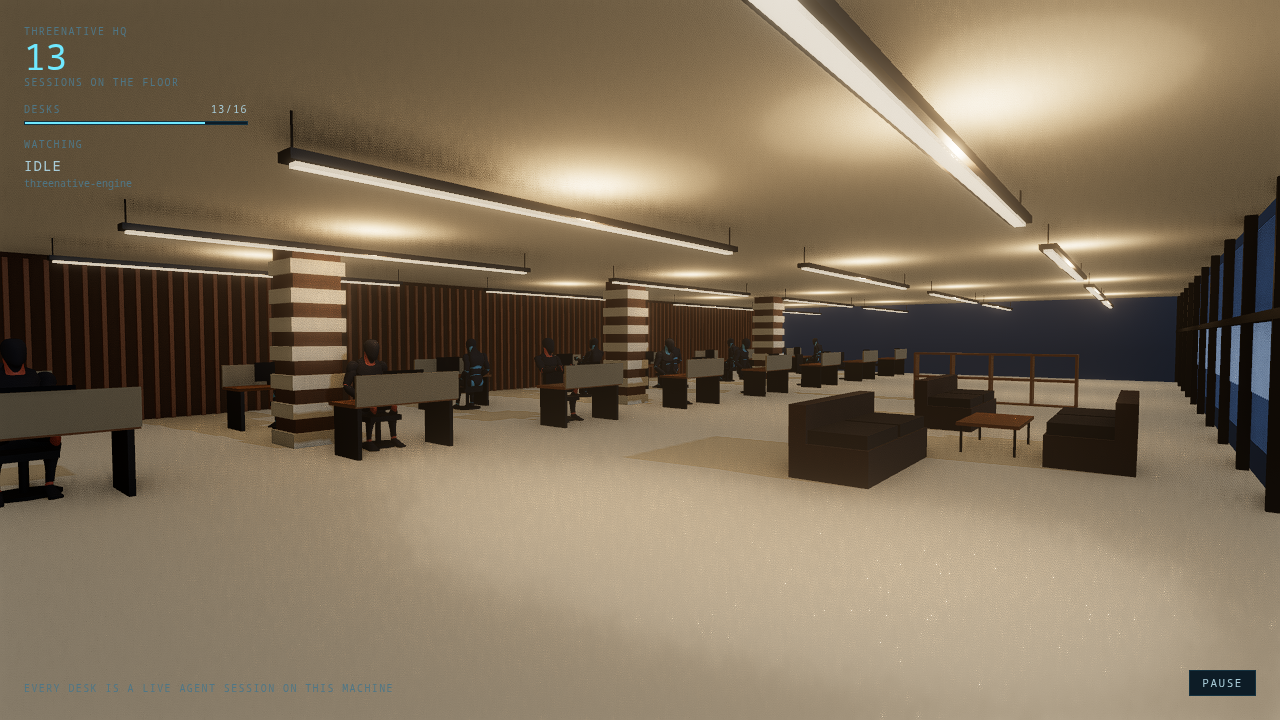
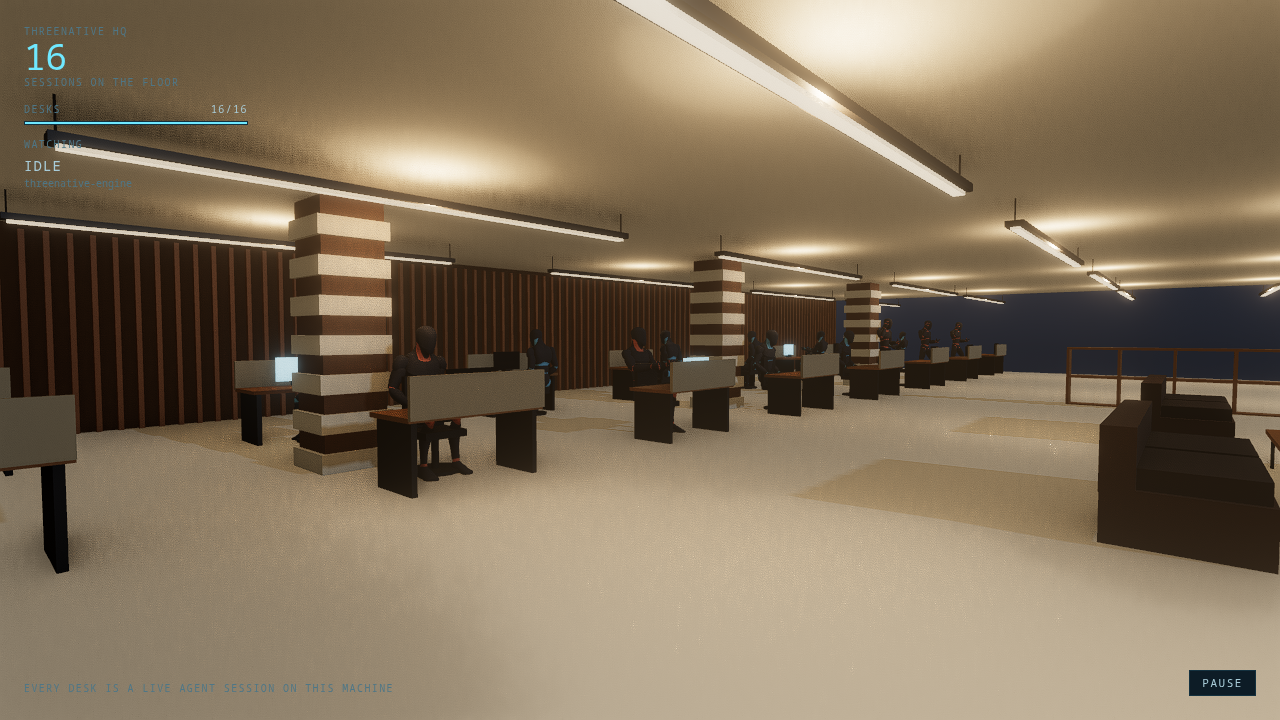
feat(hq): hooks make "waiting for you" visible, and lit monitors make the floor readable
Host hooks post six events to the bridge (tools/hooks/office-event.mjs); the installer merges them
into ~/.claude/settings.json and ~/.codex/hooks.json without disturbing what is already there —
verified against a copy of this machine's settings, whose existing count_tokens Stop hook and env
block both survive. It is a dry run unless --write is passed.

Proof of the hook path, end to end against the live bridge: a Notification hook produces a session
with source "hook" and state "blocked", and its worker stands up. A malformed event is refused by
name — `"host" must be "claude" or "codex", got "pirate"` — and changes nothing on the floor.

Working and thinking sessions now light their own monitor, per desk, which is what makes a room of
sixteen workers readable at a glance.

FRICTION.md records six engine-shaped findings, including the Fab importer being StaticMesh-only
and the engine repo's own .mcp.json pointing at a path that cannot resolve.

Claude-Session: https://claude.ai/code/session_01SHQcRgFQ73Ctmisw5sicMn

diff --git a/threenative-hq/src/scenes/Office.ts b/threenative-hq/src/scenes/Office.ts
@@ -1,7 +1,7 @@
 import { type ICtx, Scene, type SceneFrame, isMobile } from "@threenative/core";
 import type { IPhysicsContext } from "@threenative/physics";
 import type { AnimationClip, Group, PerspectiveCamera } from "three";
-import { Vector3 } from "three";
+import { Color, Mesh, MeshStandardMaterial, Vector3 } from "three";
 import { BridgeClient } from "../office/bridge-client.js";
 import { Worker } from "../office/Worker.js";
 import { assignDesks, workerStateFor } from "../office/floor.js";
@@ -83,8 +83,8 @@ export class Office extends Scene<GameState, IPhysicsContext> {
     const camera = ctx.camera as PerspectiveCamera;
     // Framing after the reference: eye height, off to one side, looking down the desk rows so the
     // slat wall fills the background and the glass throws the far edge of the floor into light.
-    camera.position.set(-14.6, 1.68, 7.4);
-    camera.lookAt(new Vector3(-1.2, 1.05, -3.4));
+    camera.position.set(-13.4, 1.55, 4.6);
+    camera.lookAt(new Vector3(-3.4, 1.0, -4.2));
 
     const bridge = new BridgeClient();
     const workers = new Map<string, Worker>();
@@ -124,6 +124,9 @@ export class Office extends Scene<GameState, IPhysicsContext> {
         const anchor = worker.standing ? desk.stand : desk.seat;
         worker.object.position.copy(anchor);
         worker.object.rotation.y = desk.facing;
+        // A working session lights its own monitor. It is the cheapest way to read the floor at a
+        // glance — a room of dark screens with three lit ones says where the work is.
+        setScreen(desk.screen, state === "working" || state === "thinking");
       }
 
       // Departures: a worker whose session is gone from the snapshot leaves the floor entirely.
@@ -158,6 +161,21 @@ export class Office extends Scene<GameState, IPhysicsContext> {
       if (changed) frameCtx.state.set(next);
     };
   }
+}
+
+const SCREEN_ON = new Color(0x9fd4e8);
+const SCREEN_OFF = new Color(0x14161a);
+
+/** Light or darken one desk's monitor. The material is the desk's own, cloned by `createOffice`. */
+function setScreen(screen: Mesh, lit: boolean): void {
+  const material = screen.material;
+  if (!(material instanceof MeshStandardMaterial)) return;
+  const wanted = lit ? SCREEN_ON : SCREEN_OFF;
+  if (material.emissive.equals(wanted)) return;
+  material.emissive.copy(wanted);
+  material.emissiveIntensity = lit ? 1.4 : 0;
+  material.color.copy(lit ? SCREEN_ON : SCREEN_OFF);
+  material.needsUpdate = true;
 }
 
 /** Entity ids are how a playtest names a worker, so they must be stable and readable. */

diff --git a/threenative-hq/src/render/office.ts b/threenative-hq/src/render/office.ts
@@ -310,7 +310,9 @@ function placeDesk(index: number): { group: Group; desk: IDeskAnchor } {
 
   const screen = new Mesh(
     new BoxGeometry(0.62, 0.36, 0.03),
-    new MeshStandardMaterial({ color: office.screenOff, roughness: 0.3, metalness: 0.1 }),
+    // Per desk, deliberately: one shared material would light the whole floor when one session
+    // starts working.
+    new MeshStandardMaterial({ color: office.screenOff, metalness: 0.1, roughness: 0.3 }),
   );
   screen.position.set(0, DESK_HEIGHT + 0.28, -0.24);
   group.add(screen);

diff --git a/threenative-hq/FRICTION.md b/threenative-hq/FRICTION.md
@@ -1,0 +1,68 @@
+# FRICTION — threenative-hq
+
+Engine-shaped friction hit while building this game, with the evidence path. Game-shaped problems
+are not in here; they were fixed in the game.
+
+## 1. `.mcp.json` in the engine repository points at a path that cannot resolve
+
+`packages/core/mcp/servers.mjs` writes `./node_modules/@threenative/core/mcp/assets.mjs`, which is
+right for a generated game and wrong for the engine checkout, where core is a workspace package the
+repo never installs into itself:
+
+```
+Error: Cannot find module '/home/joao/projects/threenative/threenative-engine/node_modules/@threenative/core/mcp/assets.mjs'
+```
+
+An agent working in the engine repository therefore has no asset, sculpt or capability tools at
+all, silently — the server simply never connects. Fixed locally by pointing the file at
+`./packages/core/mcp/*.mjs`; the engine's own `.mcp.json` is gitignored, so the next checkout hits
+it again.
+
+## 2. The Fab importer is `StaticMesh`-only, so no rigged Fab character can reach a game
+
+`threenative-asset-mcp` `src/unreal/importer.ts:927` classifies packages by `hasStaticMesh` and
+`:944` filters everything else out. The Fab listing this game was originally specified against —
+*Office Worker 2 - Animated* — is a skeletal mesh with animation sequences, and there is no path
+for it. The game uses CC0 Quaternius clips instead, which is a better answer for this game and not
+an answer at all for the next one.
+
+## 3. `AnimationPlayer` throws on duplicate clip names, with no way to merge two libraries
+
+Loading two animation libraries built on one rig is the normal way to assemble a character's
+vocabulary, and both of these ship an `A_TPose`:
+
+```
+Duplicate animation clip 'A_TPose'.
+```
+
+The game now dedupes by name before constructing the player (`src/scenes/Office.ts`), which every
+game combining two clip sources will have to write. Either the player should take the first
+occurrence and report the drop, or there should be a named helper for merging clip sets.
+
+## 4. No framework way to instance one skinned mesh many times
+
+The office needs sixteen copies of one rigged mannequin. That is
+`three/examples/jsm/utils/SkeletonUtils.js`'s `clone`, imported by hand in `src/office/Worker.ts`.
+It is not a look decision and every crowd, enemy wave and NPC set needs it.
+
+## 5. A playtest scenario has no wall-clock wait, and ticks run far faster than real time
+
+A scenario that reads as fifteen seconds of waiting completes in about one and a half. Anything the
+proof must synchronise with that is *not* driven by ticks — here, a scripted bridge on the other
+end of a socket — either fires before the first sample or after the last. The game works around it
+by having the office send a viewer heartbeat and the fixture advance on heartbeats
+(`tools/office-bridge/fixture.ts`). A `waitMs` step, or a documented tick-to-wall-clock contract,
+would remove the workaround.
+
+## 6. `warmupFrames` consumes the boot transition, so boot invariants can only be waived
+
+With any warmup at all, the runner's "before" sample already shows the connected, populated state,
+so `bridgeOnline` and `workerCount` are reported as trivial. Waiving them all then trips
+`TN_PLAYTEST_SCENARIO_ASSERTS_NOTHING` — correctly. `warmupFrames: 0` is the fix and it is not
+obvious; the diagnostic could name it.
+
+## Not the engine's fault, recorded because it cost an hour
+
+A stray `/tmp/package.json` containing `{"type":"module"}` made every extensionless Node script
+under `/tmp` load as ESM, which broke the CommonJS test stubs in `threenative-asset-mcp` and turned
+21 of its tests red at a clean `HEAD`. Moving that one file green-lit the whole suite (169/169).
